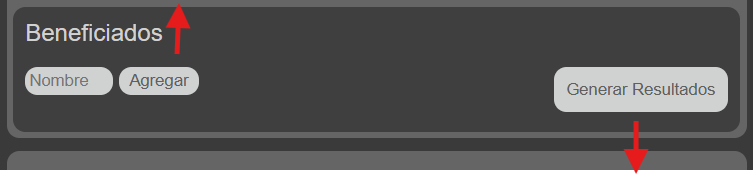
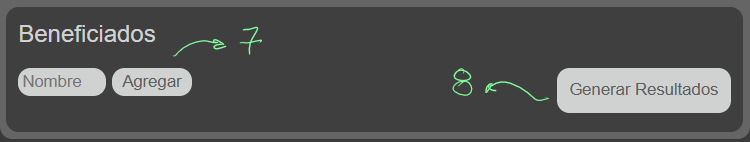
configuracion de el manual de usuario

diff --git a/js/interfaz.js b/js/interfaz.js
@@ -258,7 +258,7 @@ function inputsBeneficiados() {
     div.querySelector('#agregar-beneficiado').onclick = () => {
         let nombre = div.querySelector('input').value
 
-        nombre = validar(nombre, nombre.trim() === '', 'Nombre no Valido')
+        nombre = validar(nombre, nombre.trim() === '', 'Igresa un nombre de usuario')
 
         if (nombre) {
             agregarBeneficiado(nombre, beneficiados)

diff --git a/css/style.css b/css/style.css
@@ -27,7 +27,7 @@ select {
     border: none;
     padding: .2rem;
     width: 4rem;
-    background-color: rgb(208, 210, 210);
+    background-color: rgb(206, 216, 216);
     color: rgb(96, 96, 96);
 
 }

diff --git a/README.md b/README.md
@@ -1,49 +1,3 @@
-<style>
-.derecha{
-    float: right
-}
-
-.center {
- width: 300px
-}
-
-div {
-    margin: 40px
-}
-.manual2, .centro {
-    margin: 40px;
-    display: flex;
-    flex-direction: column;
-    text-align: center
-}
-
-.centro {
-    flex-direction: row;
-    align-items: center
-}
-.top{
-    flex-basis: 100%
-}
-
-a {
-    margin: 10px;
-    padding: 10px;
-    border-radius: 10px;
-    border: none;
-    width: 4rem;
-    background-color: rgb(208, 210, 210);
-    color: rgb(96, 96, 96);
-    font-weight: bold
-}
-
-a:hover {
-    color: black;
-    text-decoration: none;
-    background-color: aquamarine;
-}
-
-</style>
-
 # Calculador de Propinas
 
 El programa permitira al usuario agregar la propina diaria y entre quienes sera repartida asi como calcular el total a entregar, permitira registrar los adelantos y los dias que falto algun trabajador, asi como la opcion de seleccionar a quien fue hecha la entrega de la misma
@@ -52,40 +6,30 @@ El programa permitira al usuario agregar la propina diaria y entre quienes sera 
 
 ## Instrucciones de uso:
 
-<div class="manual">
-Agregar propina diaria
-<img src="./docs/img/propinas.png">
-Iniciar nueva semana limpia todos los datos ingresados, propinas, adelantos, dias faltantes y resultados
-</div>
+![proinas](./docs/img/propinas.png)
 
-<div class="manual">
-<img src="./docs/img/elimiar-propina.png"><br>
-Boton para eliminar propina.
-</div>
+1- Agregar propina diaria
 
-<div class="manual2">
-<span class="top">Boton para Eliminar Benefiado</span>
-<div class="centro">
-    <span class="izquierda">Agregar Adelantos</span>
-    <img class="center"  src="./docs/img/ficha-beneficado.png"><br>
-    <span >Eliminar item</span>
-</div>
-<span class="top">Agregar dias faltantes</span>
-</div>
+2- Iniciar nueva semana, elimina todos los datos ingresados, propinas, adelantos, dias faltantes y resultados
 
+![proina](./docs/img/eliminar-propina.png)
 
-<div>
-Boton para agregar benefiado
-<img src="./docs/img/beneficiado.png"/>
-<span class="derecha">Boton para generar los totales </span>
-</div>
+3- Boton para eliminar propina.
 
-<div>
-<br>
-<img src="./docs/img/entregada.png"/>
-Selector para indicar que propina fue entregada
-</div>
+![beneficado](./docs/img/ficha-beneficiado.png)
 
+4- Boton para Eliminar Benefiado
 
+5- Agrega Adelantos
 
+6- Agrega dias faltantes
 
+![beneficado](./docs/img/beneficiado.png)
+
+7- Boton para agregar benefiado
+
+8- Boton para generar los totales
+
+![beneficado](./docs/img/entregada.png)
+
+9- Selector para indicar que propina fue entregada
